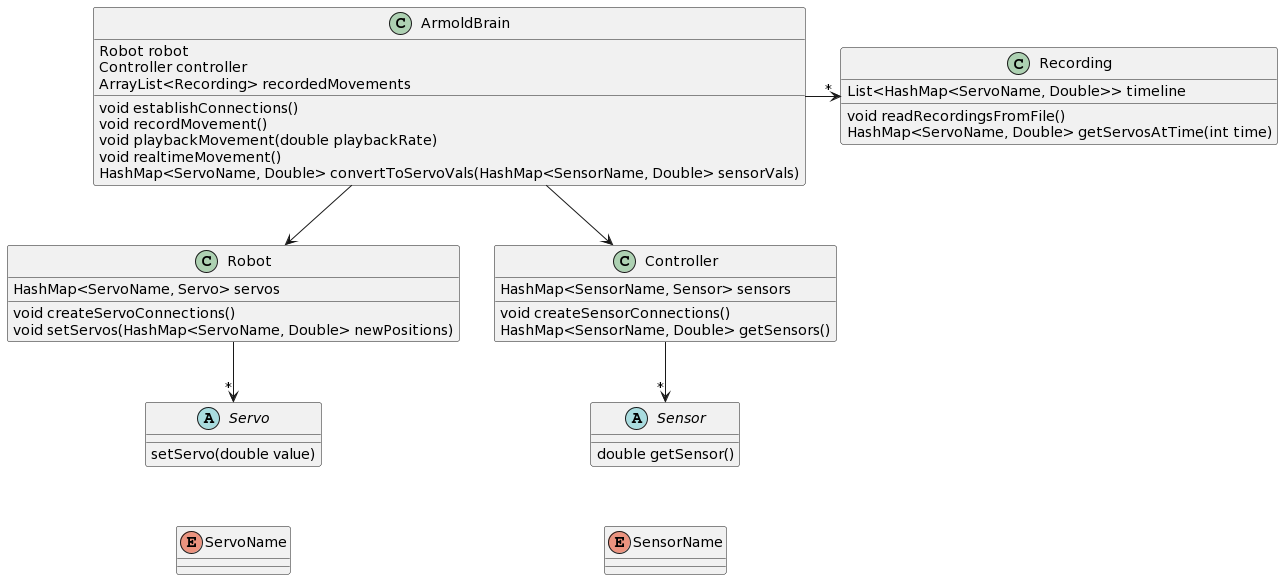
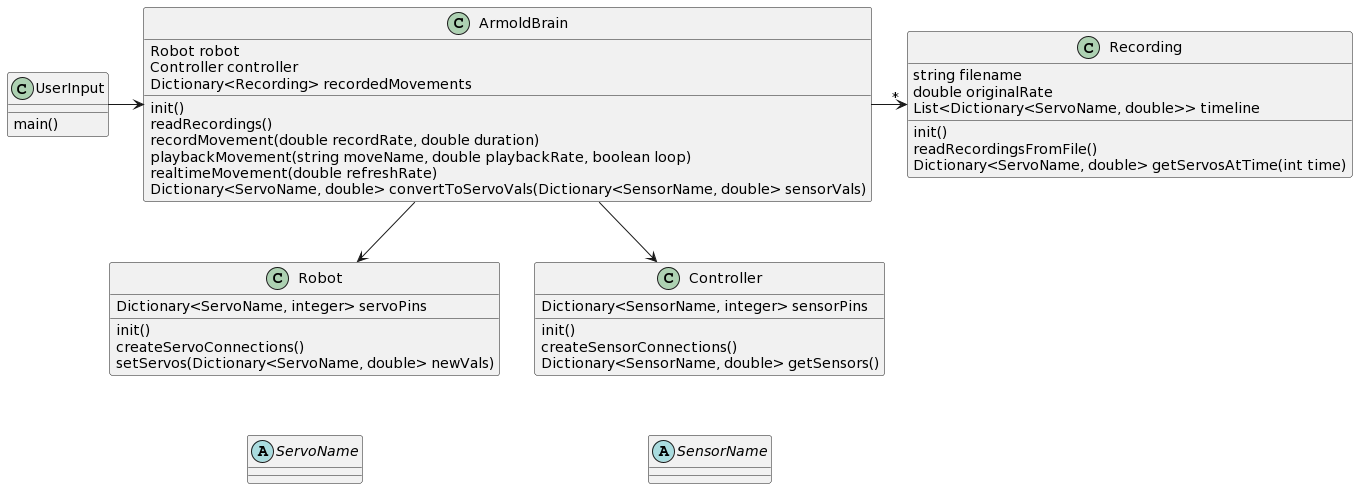
add comments to code and update UML

Changed region(s): [[0.0, 0.0, 0.9977, 0.8282], [0.1247, 0.8896, 0.2806, 1.0], [0.4677, 0.8896, 0.5924, 1.0]]

diff --git a/Code_Files/armold.py b/Code_Files/armold.py
@@ -4,12 +4,14 @@ import gpiozero
 import pigpio
 
 class ArmoldBrain:
+    # initialization
     def __init__(brain):
         brain.robot = Robot()
         brain.controller = Controller()
         brain.recordedMovements = dict()
         brain.readRecordings()
     
+    # read all recording files
     def readRecordings(brain):
         recordingsPath = "//home//pi//Armold//Code_Files//Recordings//"
         recordingNames = os.listdir(recordingsPath)
@@ -17,7 +19,8 @@ class ArmoldBrain:
         for rn in recordingNames:
             brain.recordedMovements[rn] = Recording(rn)
     
-    def recordMovement(brain, refreshRate, duration):
+    # record user movement to file
+    def recordMovement(brain, recordRate, duration):
         moveTimeline = []
         frame = 0
         secDone = 0
@@ -25,18 +28,18 @@ class ArmoldBrain:
             print("  (Press Q or Ctrl+C to stop)")
         print()
         try:
-            while((duration == 0) or (frame < refreshRate * duration)):
+            while((duration == 0) or (frame < recordRate * duration)):
                 moveTimeline.append(brain.convertToServoVals(brain.controller.getSensors()))
                 if keyboard.is_pressed("q"):
                     break
-                if (secDone == refreshRate):
+                if (secDone == recordRate):
                     print("\n")
                     secDone = 0
                 print(".", end = "")
                 sys.stdout.flush()
                 frame += 1
                 secDone += 1
-                time.sleep(1.0 / refreshRate)
+                time.sleep(1.0 / recordRate)
         except KeyboardInterrupt:
             pass
         print(f"\n\n{frame} frame(s) memorized.")
@@ -45,7 +48,7 @@ class ArmoldBrain:
         recordingsPath = "//home//pi//Armold//Code_Files//Recordings//"
         moveFullPath = os.path.join(recordingsPath, moveName + ".txt")
         moveFile = open(moveFullPath, "w")
-        moveFile.write(f"{refreshRate}")
+        moveFile.write(f"{recordRate}")
         for frameData in moveTimeline:
             moveFile.write(f"\n{frameData}")
         moveFile.close()
@@ -55,6 +58,7 @@ class ArmoldBrain:
         print("\nCool! Armold now knows how to " + moveName + ".")
         return
     
+    # playback movement on robot
     def playbackMovement(brain, moveName, playbackRate, loop):
         print("  (Press Q or Ctrl+C to stop)")
         print()
@@ -83,6 +87,7 @@ class ArmoldBrain:
         print(f"\nArmold is done performing '{moveName}!'")
         return
 
+    # follow user movements on robot
     def realtimeMovement(brain, refreshRate):
         print("  (Press Q or Ctrl+C to stop)")
         print()
@@ -101,12 +106,14 @@ class ArmoldBrain:
         return servoVals
 
 class Recording:
+    # initialization
     def __init__(recording, filename):
         recording.filename = filename
         recording.originalRate = 1
         recording.timeline = []
         recording.readRecordingFromFile(recording.filename)
 
+    # convert file lines to data frames
     def readRecordingFromFile(recording, filename):
         recordingsPath = "//home//pi//Armold//Code_Files//Recordings//"
         moveFullPath = os.path.join(recordingsPath, recording.filename + ".txt")
@@ -122,20 +129,23 @@ class Recording:
         moveFile.close()
         return
     
+    # gets data frame at time
     def getServosAtTime(recording, time):
         return recording.timeline[time]
 
 class Robot:
-    
+    # initialization
     def __init__(robot):
         robot.servoPins = dict()
         robot.createServoConnections()
     
+    # establishes servo pins
     def createServoConnections(robot):
         robot.servoPins["shoulder"] = 4
         robot.servoPins["elbow"] = 12
         return
 
+    # sets servos to new positions
     def setServos(robot, newVals):
         for servoname, pin in robot.servoPins.items():
             if servoname in newVals.keys():
@@ -143,13 +153,18 @@ class Robot:
         return
 
 class Controller:
+    # initialization
     def __init__(controller):
-        controller.sensors = dict()
+        controller.sensorPins = dict()
         controller.createSensorConnections()
     
+    # establishes sensor pins
     def createSensorConnections(controller):
+        controller.sensorPins["shoulder"] = 4
+        controller.sensorPins["elbow"] = 12
         return
 
+    # gets current sensor positions
     def getSensors(controller):
         return
 
@@ -167,8 +182,10 @@ while True:
             "\n- (t) test servo",
             "\n- (q) quit\n")
     command = input("> ")
+    # study movement
     if(command == "s"):
         print("\nYou told Armold to study your movements.")
+        # get recording rate
         while True:
             print("\nRate of recording? (Hz)\n")
             try:
@@ -180,6 +197,7 @@ while True:
                     print("\nThe rate needs to be greater than 1, try again.")
             except ValueError:
                 print("\n'" + rateinput + "' isn't a number, try again.")
+        # get recording duration
         while True:
             print("\nHow many seconds should Armold watch you? (Enter '0' to do so indefinitely)\n")
             try:
@@ -193,8 +211,10 @@ while True:
                 print("\n'" + durinput + "' isn't a number, try again.")
         print("\n- Armold is studying your movements!")
         brain.recordMovement(refreshRate, duration)
+    # playback movement
     elif(command == "p"):
         print("\nYou told Armold to perform a movement.")
+        # get movement name
         while True:
             print("\nWhich movement should Armold repeat?")
             for rn, rec in brain.recordedMovements.items():
@@ -205,6 +225,7 @@ while True:
                 break
             else:
                 print("\n'" + moveinput + "' isn't a movement Armold has memorized, try again.")
+        # get playback rate
         while True:
             print("\nRate of playback? (Hz)\n")
             try:
@@ -216,6 +237,7 @@ while True:
                     print("\nThe rate needs to be at least 1.0, try again.")
             except ValueError:
                 print("\n'" + rateinput + "' isn't a number, try again.")
+        # get loop
         print("\nLoop the movement? (Y for yes, enter for no)\n")
         loopinput = input("> ")
         loop = False
@@ -223,21 +245,24 @@ while True:
             loop = True
         print("\n- Armold is going to " + moveinput + "!")
         brain.playbackMovement(moveinput, refreshRate, loop)
+    # mirror movement
     elif(command == "l"):
         print("\nYou told Armold to mirror your movements in real-time.")
+        # get mirror rate
         while True:
             print("\nRate of recording? (Hz)\n")
             try:
                 rateinput = input("> ")
                 refreshRate = float(rateinput)
                 if (refreshRate > 1):
-                    print("\n- Armold is mirroring your movements!")
-                    brain.realtimeMovement(refreshRate)
                     break
                 else:
                     print("\nThe rate needs to be greater than 1, try again.")
             except ValueError:
                 print("\n'" + rateinput + "' isn't a number, try again.")
+        print("\n- Armold is mirroring your movements!")
+        brain.realtimeMovement(refreshRate)
+    # test servo pin
     elif(command == "t"):
         print("\nYou told Armold to test a servo.")
         print("\nWhich pin is the servo on?")
@@ -261,8 +286,10 @@ while True:
             print("\nInvalid values provided.")
         except KeyboardInterrupt:
             print("\nEnding loop...")
+    # quit
     elif(command == "q"):
         print("\n- Armold says 'Bye!'\n")
         break
+    # invalid command
     else:
         print("\n- Armold doesn't know what '" + command + "' means...")
